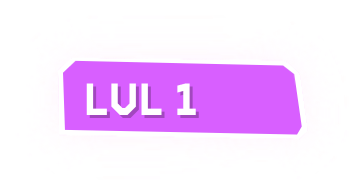
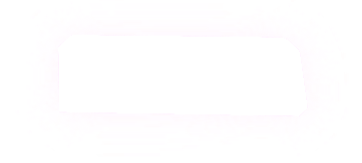
Can hover over button 1

Changed region(s): [[0.1519, 0.3067, 0.8508, 0.7362]]

diff --git a/core/src/edu/cornell/gdiac/rabbeat/LevelSelectorScreen.java b/core/src/edu/cornell/gdiac/rabbeat/LevelSelectorScreen.java
@@ -19,6 +19,7 @@ import com.badlogic.gdx.scenes.scene2d.ui.TextButton;
 import com.badlogic.gdx.scenes.scene2d.utils.ClickListener;
 import com.badlogic.gdx.scenes.scene2d.utils.TextureRegionDrawable;
 import com.badlogic.gdx.utils.viewport.ScreenViewport;
+import edu.cornell.gdiac.rabbeat.GameController;
 import edu.cornell.gdiac.util.ScreenListener;
 import java.awt.event.MouseEvent;
 import java.awt.event.MouseListener;
@@ -33,7 +34,7 @@ public class LevelSelectorScreen extends ScreenAdapter {
     private Stage stage;
     private ScreenListener listener;
 
-    private TextButton levelButton2;
+    private TextButton hoverButton;
 
     /** Returns whether a button is being hovered over */
     private boolean hover = false;
@@ -70,6 +71,7 @@ public class LevelSelectorScreen extends ScreenAdapter {
         bg.setPosition(0, 0);
         stage.addActor(bg);
 
+
         /** Loops through all buttons */
         for(int i=1; i<= numberOfLevels; i++) {
             int finalI = i;
@@ -90,28 +92,40 @@ public class LevelSelectorScreen extends ScreenAdapter {
             textButtonStyle.font = font;
             TextButton levelButton = new TextButton("", textButtonStyle);
 
-            hoverRegion = GameController.getInstance().objectController.levelButtonHover1;
-            hoverImage = new Image(hoverRegion);
 
-            hoverImage.addListener(new InputListener() {
-                @Override
-                public void exit(InputEvent event, float x, float y, int pointer, Actor toActor) {
-                    //if (!hitbox.contains(x+100, y)) {
-                        hover = false; // Update hover state
-                    //}
-                }
-            });
+
+//
+//            hoverImage.addListener(new InputListener() {
+//                @Override
+//                public void exit(InputEvent event, float x, float y, int pointer, Actor toActor) {
+//                    //if (!hitbox.contains(x+100, y)) {
+//                        hover = false; // Update hover state
+//                    //}
+//                }
+//            });
+
+//            Texture buttonTexture2 = GameController.getInstance().objectController.getLevelButtonHoverTexture(finalI);
+//            TextureRegionDrawable buttonDrawable2 = new TextureRegionDrawable(new TextureRegion(buttonTexture2));
+//            BitmapFont font2 = new BitmapFont();
+//            TextButton.TextButtonStyle textButtonStyle2 = new TextButton.TextButtonStyle();
+//            textButtonStyle2.up = buttonDrawable2;
+//            textButtonStyle2.font = font2;
+//            hoverButton = new TextButton("", textButtonStyle2);
+//            //hoverButton.setPosition(415, background.getHeight()-hoverButton.getHeight()-161);
+//            stage.addActor(hoverButton);
 
 
             switch(i) {
                 case(1):
-                    hoverImage.setPosition(418, background.getHeight()-hoverImage.getHeight()-135);
+//                    hoverButton.setPosition(415, background.getHeight()-hoverButton.getHeight()-161);
                     levelButton.setPosition(478, background.getHeight()-levelButton.getHeight()-200);
                     break;
                 case(2):
+//                    hoverButton.setPosition(414, background.getHeight()-hoverButton.getHeight()-213);
                     levelButton.setPosition(464, background.getHeight()-levelButton.getHeight()-266);
                     break;
                 case(3):
+//                    hoverButton.setPosition(420, background.getHeight()-hoverButton.getHeight()-227);
                     levelButton.setPosition(483, background.getHeight()-levelButton.getHeight()-311);
                     break;
                 case(4):
@@ -180,36 +194,55 @@ public class LevelSelectorScreen extends ScreenAdapter {
 //                    break;
             }
 
-            levelButton.addListener(new InputListener() {
-                @Override
-                public boolean mouseMoved(InputEvent event, float x, float y) {
-                    hover = true;
-                    return true; // Returning true means that this event is handled
-                }
+            if(i == 1) {
+                hoverRegion = GameController.getInstance().objectController.levelButtonHover1;
+                hoverImage = new Image(hoverRegion);
+                hoverImage.setPosition(415, background.getHeight()-hoverImage.getHeight()-161);
+                stage.addActor(hoverImage);
 
-            });
+                levelButton.addListener(new InputListener() {
+                    @Override
+                    public boolean mouseMoved(InputEvent event, float x, float y) {
+//                    hoverButton.setVisible(true);
+                        hover = true;
+                        return true; // Returning true means that this event is handled
+                    }
 
-            if(i==1) {
-                //HOVER OVER BUTTON!
-                Texture buttonTexture2 = GameController.getInstance().objectController.levelButtonHover1;
-                TextureRegionDrawable buttonDrawable2 = new TextureRegionDrawable(new TextureRegion(buttonTexture2));
-                BitmapFont font2 = new BitmapFont();
-                TextButton.TextButtonStyle textButtonStyle2 = new TextButton.TextButtonStyle();
-                textButtonStyle2.up = buttonDrawable2;
-                textButtonStyle2.font = font2;
-                levelButton2 = new TextButton("", textButtonStyle2);
-                levelButton2.setPosition(418, background.getHeight()-levelButton2.getHeight()-135);
-                stage.addActor(levelButton2);
-
-                
-                levelButton2.addListener(new InputListener() {
                     @Override
                     public void exit(InputEvent event, float x, float y, int pointer, Actor toActor) {
                         //if (!hitbox.contains(x+100, y)) {
                         hover = false; // Update hover state
                         //}
                     }
+
                 });
+            }
+
+
+            if(i==1) {
+                //HOVER OVER BUTTON!
+
+
+//                Texture buttonTexture3 = GameController.getInstance().objectController.level1;
+//                TextureRegionDrawable buttonDrawable3 = new TextureRegionDrawable(new TextureRegion(buttonTexture3));
+//                BitmapFont font3 = new BitmapFont();
+//                TextButton.TextButtonStyle textButtonStyle3 = new TextButton.TextButtonStyle();
+//                textButtonStyle3.up = buttonDrawable3;
+//                textButtonStyle3.font = font3;
+//                levelButton3 = new TextButton("", textButtonStyle3);
+//                levelButton3.setPosition(418, background.getHeight()-levelButton2.getHeight()-135);
+//                levelButton3.setPosition(483, background.getHeight()-levelButton.getHeight()-206);
+////                levelButton3.setVisible(false);
+//                stage.addActor(levelButton3);
+
+//                levelButton2.addListener(new InputListener() {
+//                    @Override
+//                    public void exit(InputEvent event, float x, float y, int pointer, Actor toActor) {
+//                        //if (!hitbox.contains(x+100, y)) {
+//                        hover = false; // Update hover state
+//                        //}
+//                    }
+//                });
             }
 
             levelButton.addListener(new ClickListener() {
@@ -232,7 +265,8 @@ public class LevelSelectorScreen extends ScreenAdapter {
 
     public void render(float delta) {
 
-        levelButton2.setVisible(hover);
+//        hoverButton.setVisible(hover);
+        hoverImage.setVisible(hover);
 
         Gdx.gl.glClear(GL20.GL_COLOR_BUFFER_BIT);
         stage.act(Math.min(Gdx.graphics.getDeltaTime(), 1 / 30f));

diff --git a/core/src/edu/cornell/gdiac/rabbeat/ObjectController.java b/core/src/edu/cornell/gdiac/rabbeat/ObjectController.java
@@ -478,6 +478,9 @@ public class ObjectController {
         lockedButton12 = directory.getEntry("ui:lockedLevels:lockedLevel12", Texture.class);
 
         levelButtonHover1 = directory.getEntry("ui:levelButtonsHoverState:level1ButtonHover", Texture.class);
+        levelButtonHover2 = directory.getEntry("ui:levelButtonsHoverState:level2ButtonHover", Texture.class);
+        levelButtonHover3 = directory.getEntry("ui:levelButtonsHoverState:level3ButtonHover", Texture.class);
+        levelButtonHover4 = directory.getEntry("ui:levelButtonsHoverState:level4ButtonHover", Texture.class);
 
         holderBackground = new TextureRegion(directory.getEntry("ui:holderBackground", Texture.class));
 
@@ -1850,6 +1853,25 @@ public class ObjectController {
             case(10): return lockedButton10;
             case(11): return lockedButton11;
             case(12): return lockedButton12;
+        }
+        return null;
+    }
+
+    /** Returns the texture of the desired button number's hover state, represented by i */
+    public Texture getLevelButtonHoverTexture (int i) {
+        switch(i) {
+            case(1): return levelButtonHover1;
+            case(2): return levelButtonHover2;
+            case(3): return levelButtonHover3;
+            case(4): return levelButtonHover4;
+            case(5): return levelButtonHover1;
+            case(6): return levelButtonHover1;
+            case(7): return levelButtonHover1;
+            case(8): return levelButtonHover1;
+            case(9): return levelButtonHover1;
+            case(10): return levelButtonHover1;
+            case(11): return levelButtonHover1;
+            case(12): return levelButtonHover1;
         }
         return null;
     }
